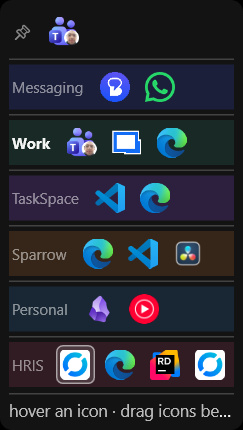
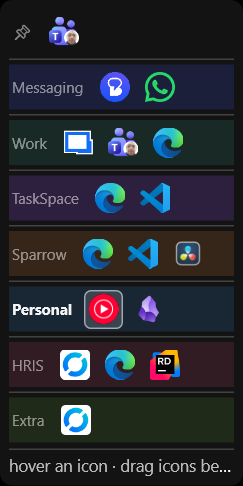
docs: lead with the screenshot, and a tagline that names the benefit
Petre: "One click switches context. The taskbar follows. — bad. image is worth a
thousand words."

Both criticisms land. The tagline sold the MECHANISM: "the taskbar follows" is what
the app does internally, not what you get. What you get is that you come back to a
project with every window still open and still where you left it, which is the thing
he had to tell me to write down in the first place. New tagline says that instead.

And the screenshot was buried: header, badges, a five-line Windows-only blockquote
and two paragraphs of prose before you saw the one thing that explains the app
instantly. It now sits directly under the badges, above everything, with a caption
that does the work the prose was doing. The prose below it drops from two paragraphs
to one, because the picture already made half of it redundant.

Recaptured from the running app so the shot is current -- it now has seven rows
including the new Extra workspace, and the bold current row and outlined focused
icon agree with each other, which the previous capture did not (it was taken while
my own z-order probe had activated the taskbar, leaving the highlight pointing at a
window on another desktop).

*Collaboration by Claude*

diff --git a/README.md b/README.md
@@ -4,7 +4,7 @@
 
 <h1 align="center">TaskSpaces</h1>
 
-<p align="center"><em>One click switches context. The taskbar follows.</em></p>
+<p align="center"><em>Switch project in one click. Every window is exactly where you left it.</em></p>
 
 <p align="center">
   <img src="https://img.shields.io/badge/platform-Windows%2011%20%C2%B7%20x64-0078D4" alt="Platform: Windows 11, x64" />
@@ -12,29 +12,25 @@
   <img src="https://img.shields.io/badge/.NET-10-512BD4" alt=".NET 10" />
 </p>
 
+<p align="center">
+  <img src="docs/images/floating-bar.png" width="243" alt="The floating bar: seven rows, one per workspace, each tinted its own colour, showing the icons of every window in it. The current workspace's label is bold and the focused window's icon is outlined." />
+</p>
+
+<p align="center"><em>Everything you have open, grouped by project. One row per workspace, the
+current one in bold, the focused window outlined. Click any icon to jump straight to that
+window from anywhere; drag it to another row to move it there. Shown at life size.</em></p>
+
 > **Windows only, by design rather than by omission.** TaskSpaces is built directly on
 > Windows' virtual-desktop COM API, the taskbar's native per-desktop window filtering, and
 > WinEvent hooks. macOS and Linux organise windows on fundamentally different models, so
 > there is no port waiting to be written. If you are not on Windows 11, this is not the tool
 > for you.
 
-Named workspaces for the Windows taskbar. Group your running apps into contexts
-(**Work**, **Personal**, **YouTube**) and switch between them with one click.
-
-Switching does not just filter the taskbar. **You come back to the workspace exactly as
-you left it** — every window still open, still where you put it, still scrolled to where
-you were reading. Nothing was closed and nothing was minimised; the other workspaces'
-windows simply kept running out of sight while you were away. That is the point: the
-expensive part of changing project is not the switch, it is rebuilding the context you
-had before, and here there is nothing to rebuild. Workspaces survive reboots too.
-
-<p align="center">
-  <img src="docs/images/floating-bar.png" width="243" alt="The floating bar: one row per workspace, each tinted its own colour, showing every window's icon across all workspaces" />
-</p>
-
-<p align="center"><em>The floating bar, at life size. One row per workspace, the current one in
-bold, every window in every workspace at a glance. Click an icon to jump to that window;
-drag it to another row to move the window there.</em></p>
+Group your running apps into named contexts — **Work**, **Personal**, **YouTube** — and
+switch between them with one click. Switching does not merely filter the taskbar: you come
+back to everything still open and still where you put it, because nothing was ever closed or
+minimised. The expensive part of changing project is rebuilding the context you had, and
+here there is nothing to rebuild. Workspaces survive reboots.
 
 ## Install
 
